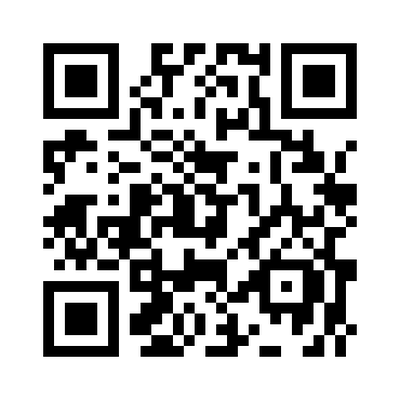
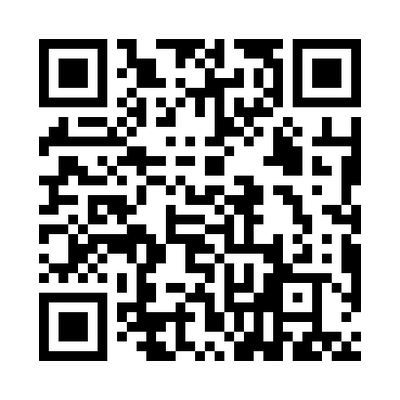
Update QR code generation and branch location details
- Changed URLs in qr.py to include 'https://' for proper formatting.
- Removed outdated branch location entries from lg_branches_with_coords.json.
- Added new branch location entries in lg_branches_with_coords.json.
- Updated binary QR code images for consistency.

diff --git a/qr.py b/qr.py
@@ -231,7 +231,7 @@ if __name__ == "__main__":
     qr_gen = CustomQRGenerator()
     
     # بيانات المثال - رابط موقعك
-    url = "www.lg-branchs.store"
+    url = "https://www.lg-branchs.store"
     
     # إنشاء QR code أساسي
     print("إنشاء QR code أساسي...")
@@ -272,7 +272,7 @@ if __name__ == "__main__":
     
     # مجموعة QR codes لروابط متعددة
     urls_list = [
-        "www.lg-branchs.store",
+        "https://www.lg-branchs.store",
         
     ]
     
